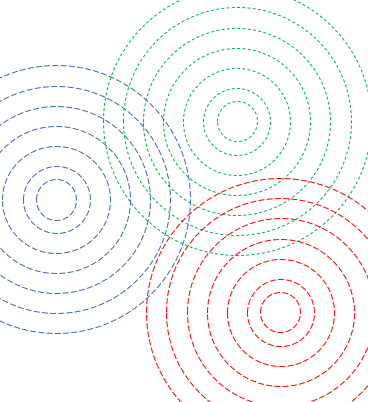
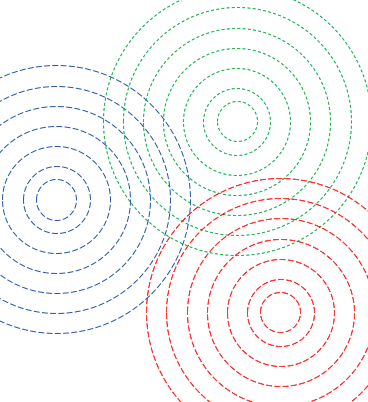
using rings background

Changed region(s): [[0.9864, 0.8657, 1.0, 0.8955]]

diff --git a/nistet/nist-et-v1.html b/nistet/nist-et-v1.html
@@ -58,7 +58,7 @@
 
     html {
         background:
-            url('https://github.com/saewoonam/web_bt/blob/master/nistet/NIST-ET.png?raw=true')
+            url('https://github.com/saewoonam/web_bt/blob/master/nistet/ring2.png?raw=true')
             /*
             url('https://cdn.proschoolonline.com/wp-content/uploads/2019/03/6-types-of-people-you-must-add-to-your-network-1320x1320.jpg')*/
             /*url('https://cdn.bitdegree.org/learn/soap-colorful-color-fruit-68525.jpeg') */
